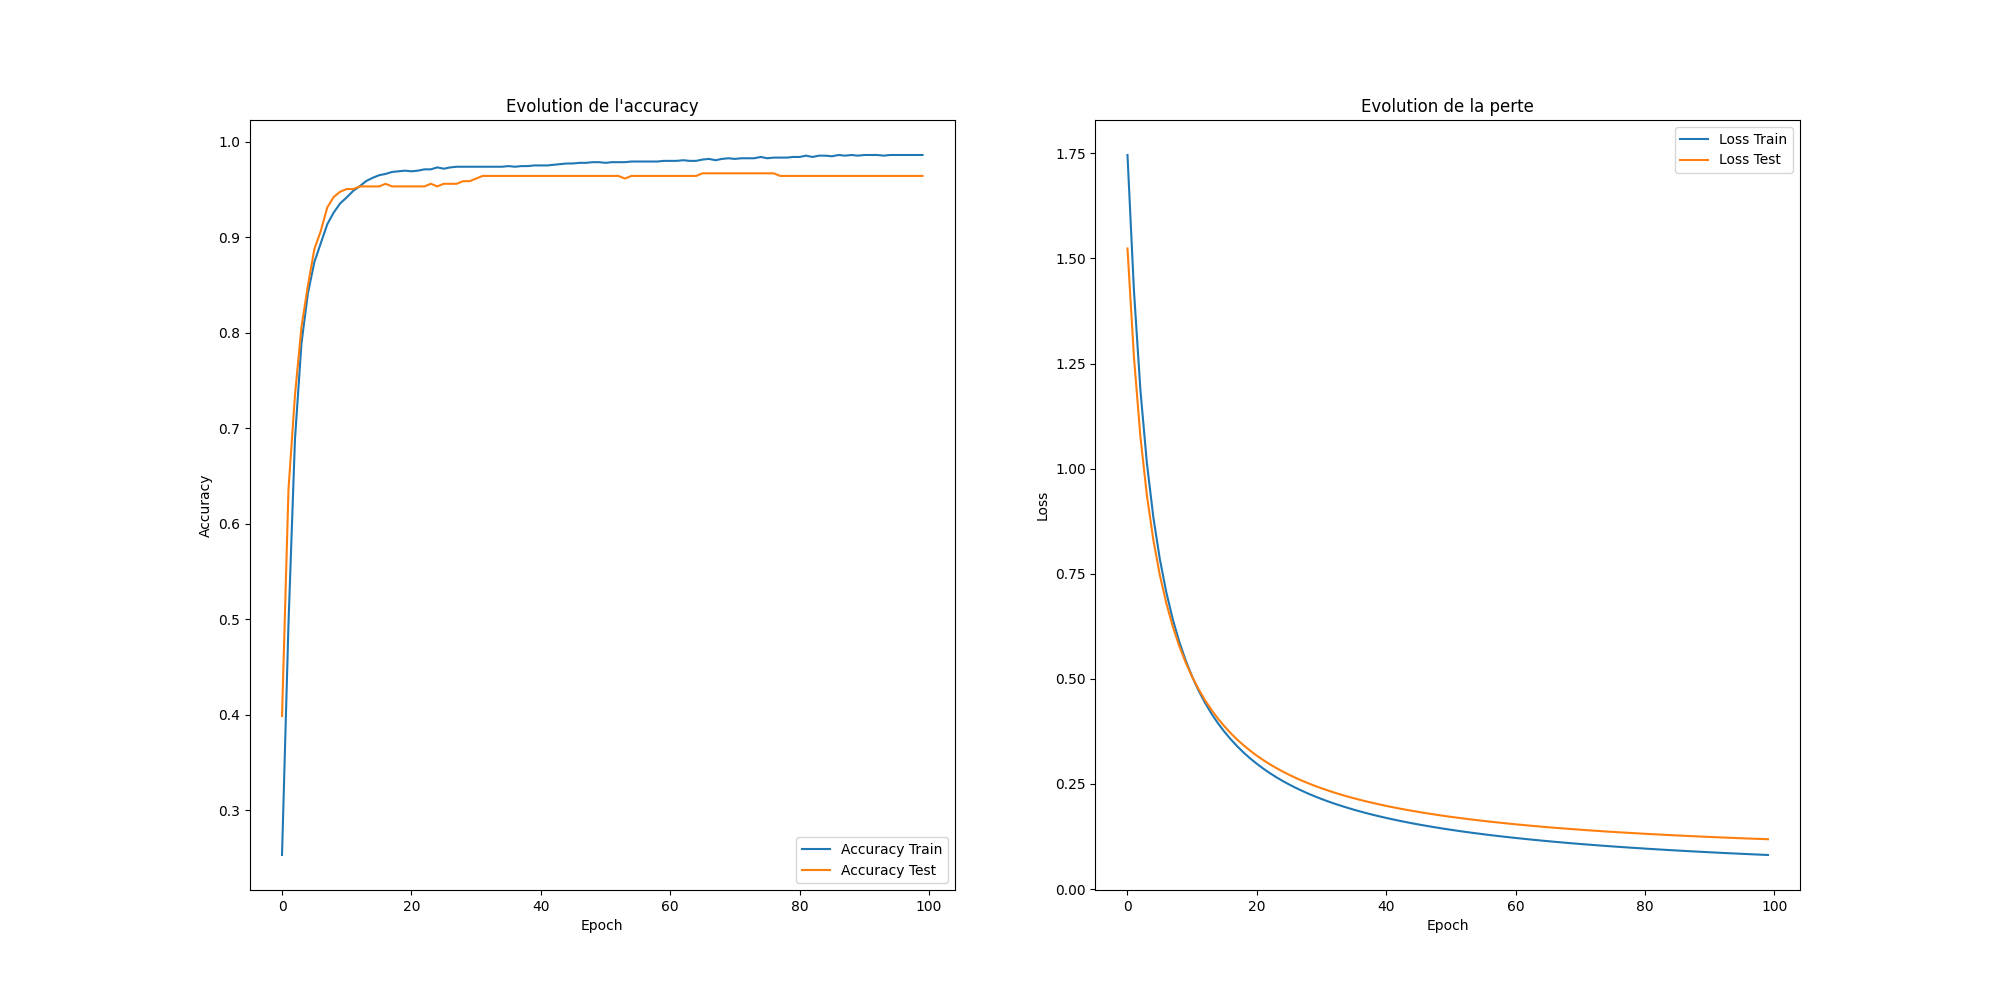
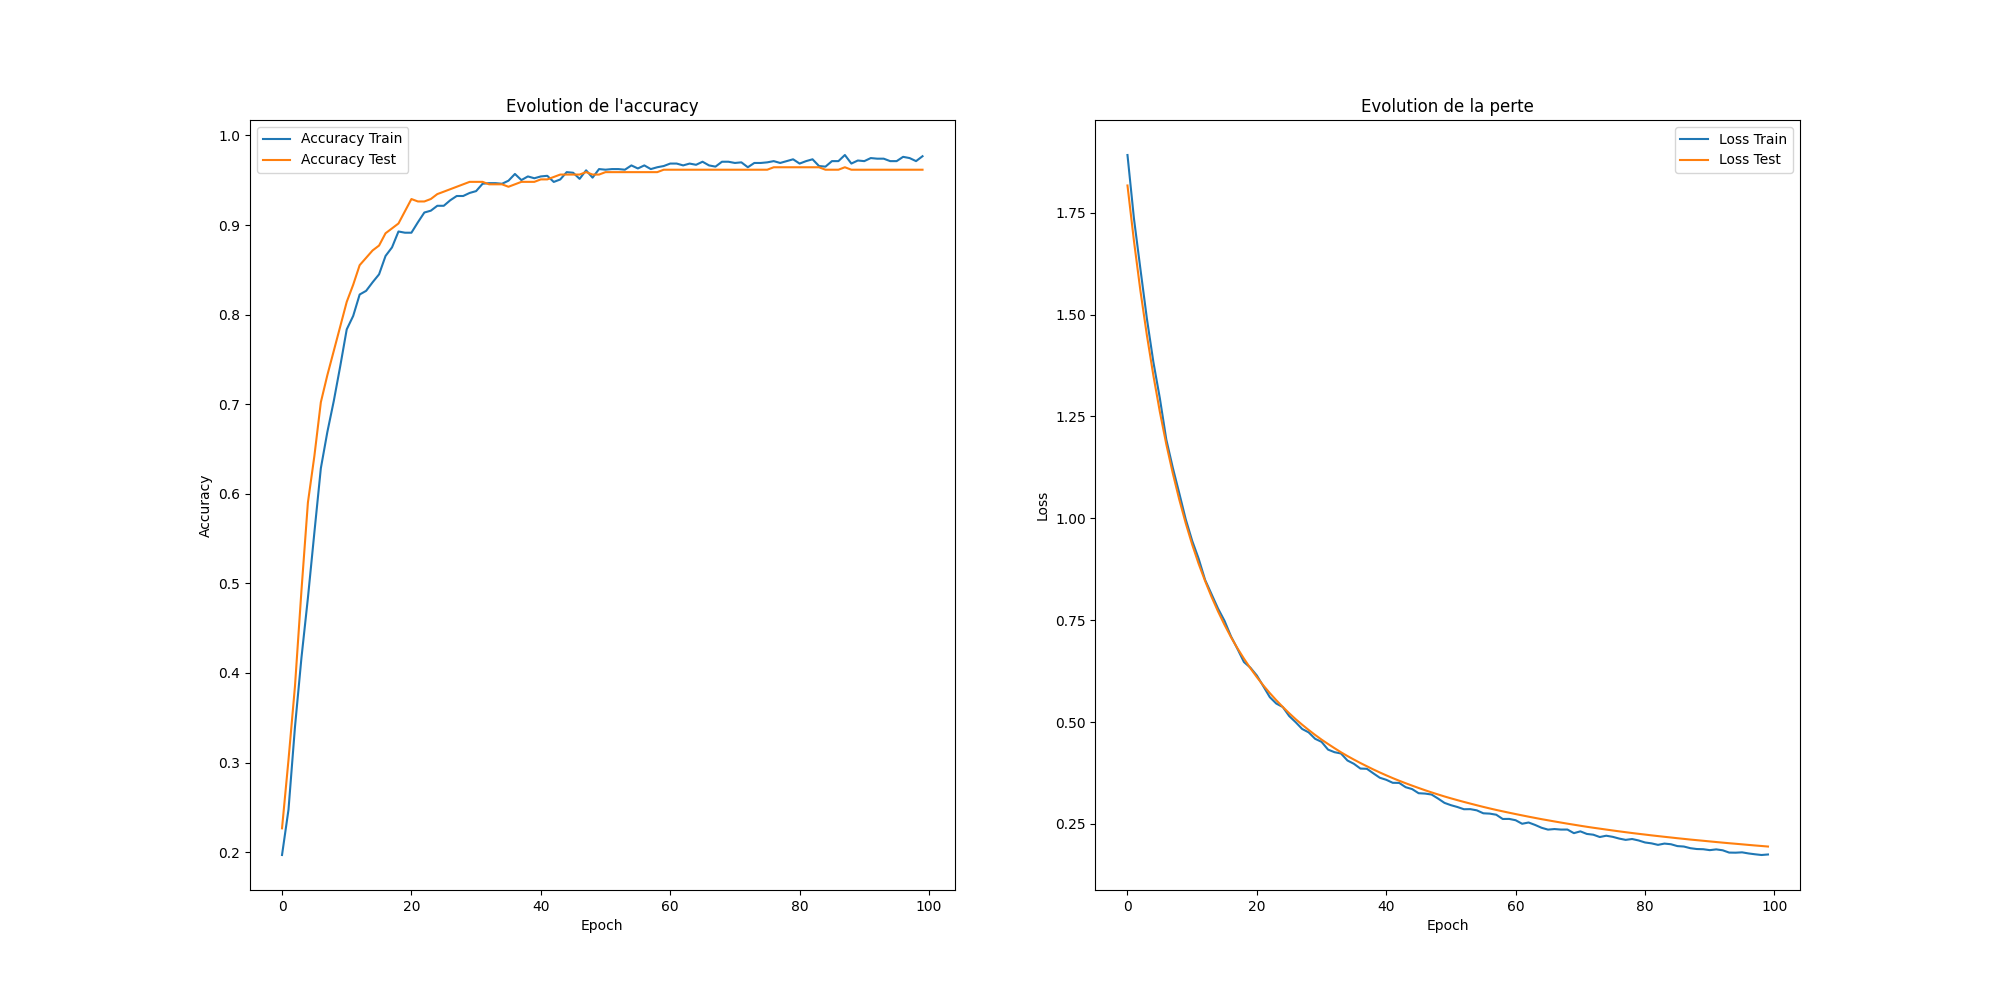
poids ponderés

diff --git a/rendu_7/app.py b/rendu_7/app.py
@@ -8,10 +8,19 @@ from sklearn.preprocessing import label_binarize
 import seaborn as sns
 import matplotlib.pyplot as plt
 from sklearn.model_selection import KFold
+from collections import Counter
+
 
 kf = KFold(n_splits=5, shuffle=True, random_state=42)
 
 data = pd.read_csv("rendu_7/csv_files/dermatologie.csv")
+
+
+class_counts = Counter(data["classe"])
+nb_individus = data.shape[0]
+nb_classes = len(class_counts)
+
+class_weights = {classe: nb_individus / (nb_classes * count) for classe, count in class_counts.items()}
 
 X = data.iloc[:, :-1].to_numpy()
 y_true = data.iloc[:, -1].to_numpy()
@@ -33,14 +42,14 @@ for train_index, test_index in kf.split(X, y):
     model = tf.keras.models.Sequential([
             Dense(128, activation="tanh", input_shape=(X.shape[1],)),
             Dense(128, activation="tanh"),
-            Dense(128, activation="tanh"),
+            Dropout(0.2),
             Dense(6, activation="softmax")
     ])
 
     optimizer = tf.keras.optimizers.SGD(learning_rate=0.001)
     model.compile(optimizer=optimizer, loss='categorical_crossentropy', metrics=['accuracy'])
 
-    historique = model.fit(x_train, y_train, epochs=100, validation_data=(x_test, y_test), batch_size=8)
+    historique = model.fit(x_train, y_train, epochs=100, validation_data=(x_test, y_test), batch_size=16, class_weight=class_weights)
 
     accuracies.append(historique.history["accuracy"])
     accuracies_test.append(historique.history["val_accuracy"])
@@ -92,14 +101,14 @@ plt.show()
 model = tf.keras.models.Sequential([
         Dense(128, activation="tanh", input_shape=(X.shape[1],)),
         Dense(128, activation="tanh"),
-        Dense(128, activation="tanh"),
+        Dropout(0.2),
         Dense(6, activation="softmax")
 ])
 
 optimizer = tf.keras.optimizers.SGD(learning_rate=0.001)
 model.compile(optimizer=optimizer, loss='categorical_crossentropy', metrics=['accuracy'])
 
-model.fit(X, y, epochs=100, batch_size=8)
+model.fit(X, y, epochs=100, batch_size=16, class_weight=class_weights)
 
 # Courbe ROC
 y_true_bin = label_binarize(y_true, classes=np.unique(y_true))
